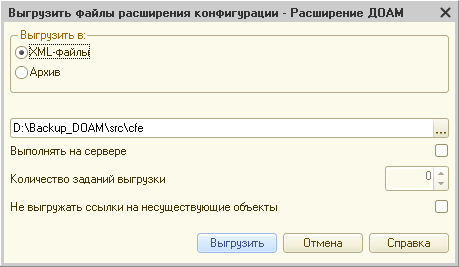
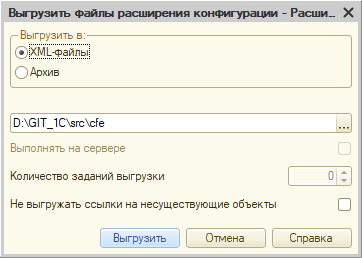
1C How to update vendor DB
* Disable Classic Pages (allow all actions) and change link theme

diff --git a/faq/1cd_crash/01_upgrade-base.md b/faq/1cd_crash/01_upgrade-base.md
@@ -1,0 +1,79 @@
+---
+sort: 1
+---
+
+# Обновление платформы в не изменяя информационную базу
+
+|1C:Предприятие|8.3.24.1691
+|:--- |:--- 
+|Документооборот КОРП|2.1.29.17
+|Расширение ДОАМ|[2.0.0]
+
+[2.0.0]: https://github.com/kc-doam/doam.cfe/releases
+
+``` note
+Если конфигурация открыта, то пропустите пункт 1.
+```
+
+## Решение вопроса
+
+``` tip
+Перед выполнением действий создайте копию информационной базы.
+```
+
+1. Открыть `Конфигурацию` в режиме конфигуратора, - слева откроется окно  
+``` mermaid
+graph LR
+  %% https://mermaid-js.github.io/mermaid-live-editor/
+  %% https://fontawesome.ru/all-icons/
+  b1([fa:fa-external-link Конфигуратор]) -.-> |ЛКМ| m1
+  m1("Конфигурация [меню]") --> m2
+  m2(Открыть конфигурацию) -.-> |ЛКМ| element
+  element[fa:fa-window-restore Конфигурация]
+  style b1 fill:#f9f9f9,stroke:#a0a0a0,stroke-width:2px
+  style element fill:#fff,stroke:#a0a0a0,stroke-width:2px,stroke-dasharray:2 4
+  classDef confmenu fill:#d6e9ff,stroke:#9eb6e9,stroke-width:1px,color:#3d4e8f
+  class m1,m2 confmenu
+```
+``` tip
+Если панель `Конфигурация` закрыта, то отобразить окно можно горячими клавишами [`Ctrl+Shift+C`](#)
+```
+
+2. Перед сравнением-объединением с новой версией удалить общие формы и регистры:  
+	* ЗагрузкаДанныхИзСервиса  
+	* АдресныеОбъекты  
+``` note
+В версии `2.1.29` вместо перечисленных добавлены объекты с такими же именами, но с другой структурой.
+```
+
+3. В действительности с конфигурацией от стороннего производителя будет сделать невозможно,  
+поэтому сразу запустить `Обновить конфигурацию...` и меню `Поддержка`.  
+``` mermaid
+graph LR
+  %% https://mermaid-js.github.io/mermaid-live-editor/
+  %% https://fontawesome.ru/all-icons/
+  m1("Конфигурация [меню]") --> m2
+  m2("Поддержка") -.-> |ЛКМ| m3
+  m3("Обновить конфигурацию...")
+  classDef confmenu fill:#d6e9ff,stroke:#9eb6e9,stroke-width:1px,color:#3d4e8f
+  class m1,m2,m3 confmenu
+```
+
+4. Выбрать файл обновления, который по умолчанию скачивается в директорию 
+`%AppData%\1C\1cv8\tmplts\1c\`, и нажать кнопку `Готово`, затем `Продолжить обновление`.  
+
+5. Необходимо сравнить поставщика обновления, нажать кнопку `ОК` и подождать сравнение конфигураций.  
+![Запрос обновления](images/upgrade_cfu_2_1.png)
+``` note
+После появления окна необходимо найти и установить галки напротив объектов, указанных в пункте 2. Затем нажать кнопку `Выполнить`.  
+На сообщение `Будет произведена замена объектов. Продолжить?` ответить `Да`, затем нажать `OK`.  
+Расширение в режиме "адаптация" перед обновлением отключать не требуется.  
+```
+После появления сообщения с реорганизацией базы (после реструктуризации) нажмите кнопку `Принять`.  
+
+6. После обовления конфигурации нажать клавишу `F7`.  
+В результате успешного обновления во время очередного запуска информационной базы 
+появится сообщение с обновлением, а затем и сообщение с окончанием обносления.  
+![Процесс обновления](images/upgrade_cfu_2_2.png)
+
+

diff --git a/faq/xls_crash/README.md b/faq/xls_crash/README.md
@@ -1,5 +1,6 @@
 ---
 sort: 1
+ext: .html
 ---
 
 ## Excel: Сбой при работе с документами
@@ -9,8 +10,9 @@ sort: 1
 
 |Дата заявки|Версия Excel|Суть конфликта
 |:--- |:--- |:--- 
-|2022-01-17|16.0.4266.1001|[Вместо открытия файла видно пустое окно](blank-window)
-|2021-09-15|14.0.7015.1000|[Ошибка чтения макросом файла](protected-view)
-|2021-04-23|16.0.4266.1001|[В документах рецензирования нет суммы](empty-amount-in-docs)
-|2021-04-09|16.0.4266.1001|[Книги не закрываются при нажании на крест](book-does-not-close)
+|2024-06-18|16.0.4266.1001|[Новый документ не сохраняется](05_dont-save-docs{{ page.ext }})
+|2022-01-17|16.0.4266.1001|[Вместо открытия файла видно пустое окно](04_blank-window{{ page.ext }})
+|2021-09-15|14.0.7015.1000|[Ошибка чтения макросом файла](03_protected-view{{ page.ext }})
+|2021-04-23|16.0.4266.1001|[В документах рецензирования нет суммы](02_empty-amount-in-docs{{ page.ext }})
+|2021-04-09|16.0.4266.1001|[Книги не закрываются при нажании на крест](01_book-does-not-close{{ page.ext }})
 

diff --git a/faq/1cd_crash/03_export-extension-files.md b/faq/1cd_crash/03_export-extension-files.md
@@ -1,5 +1,5 @@
 ---
-sort: 2
+sort: 3
 ---
 
 # Экспорт файлов расширения ДОАМ
@@ -9,7 +9,7 @@ sort: 2
 |Документооборот КОРП|2.1.10.2
 |Расширение ДОАМ|[1.2.2]
 
-[1.2.2]: //github.com/kc-doam/doam.cfe/releases
+[1.2.2]: https://github.com/kc-doam/doam.cfe/releases
 
 ``` note
 Если конфигурация открыта, то пропустите пункт 1.
@@ -36,7 +36,7 @@ graph LR
 [`Ctrl+Shift+C`](#)
 ```
 
-2. Выбрать меню `Выгрузить конфигурацию в файлы` и указать путь `REPO\src\cfe`
+2. Выбрать меню панель управления `Расширения конфигурации`  
 ``` mermaid
 graph LR
   %% https://mermaid-js.github.io/mermaid-live-editor/
@@ -60,7 +60,7 @@ graph LR
   classDef confmenu fill:#d6e9ff,stroke:#9eb6e9,stroke-width:1px,color:#3d4e8f
   class m1,m2,m3 confmenu
 ```
-
+Выбрать меню `Выгрузить конфигурацию в файлы...` и указать путь `REPO\src\cfe`  
 ![Экспорт](images/export_cfe_2_0.png)
 
 3. В случае необходимости подтвердить действие

diff --git a/faq/1cd_crash/README.md b/faq/1cd_crash/README.md
@@ -1,5 +1,6 @@
 ---
 sort: 2
+ext: .html
 ---
 
 ## 1С: Сбой после обновления или изменений
@@ -9,7 +10,8 @@ sort: 2
 
 |Дата заявки|Версия 1С|Суть конфликта
 |:--- |:--- |:--- 
-|2022-07-18|8.3.18.1741|[Создание файловой информационной базы без конфигурации](create-new-base)
-|2021-10-12|8.3.17.1851|[Экспорт файлов расширения ДОАМ](export-extension-files)
-|2020-12-24|8.3.17.1851|[После обновления пустой экран](main-window-is-white)
+|2024-11-20|8.3.24.1691|[Обновление платформы в не изменяя информационную базу](01_upgrade-base{{ page.ext }})
+|2022-07-18|8.3.18.1741|[Создание файловой информационной базы без конфигурации](02_create-new-base{{ page.ext }})
+|2021-10-12|8.3.17.1851|[Экспорт файлов расширения ДОАМ](03_export-extension-files{{ page.ext }})
+|2020-12-24|8.3.17.1851|[После обновления пустой экран](04_main-window-is-white{{ page.ext }})
 

diff --git a/faq/1cd_crash/04_main-window-is-white.md b/faq/1cd_crash/04_main-window-is-white.md
@@ -1,5 +1,5 @@
 ---
-sort: 3
+sort: 4
 ---
 
 # После обновления пустой экран
@@ -9,7 +9,7 @@ sort: 3
 |Документооборот КОРП|2.1.10.2
 |Расширение ДОАМ|[1.2.1]
 
-[1.2.1]: //github.com/kc-doam/doam.cfe/releases
+[1.2.1]: https://github.com/kc-doam/doam.cfe/releases
 
 ``` danger
 **2020-12-24**  
@@ -34,8 +34,8 @@ graph LR
   class m1,m2 confmenu
 ```
 ``` tip
-Если `Конфигурация` открыта, показать окно можно горячими клавишами 
-[`Ctrl+Shift+C`](#{{ page.url }})
+Если панель `Конфигурация` открыта, показать окно можно горячими клавишами 
+[`Ctrl+Shift+C`](#{{ site.baseurl }})
 ```
 
 2. Проверить настройки Начальной страницы `Конфигурации` в поле `Шаблон 

diff --git a/faq/xls_crash/05_dont-save-docs.md b/faq/xls_crash/05_dont-save-docs.md
@@ -1,0 +1,23 @@
+---
+sort: 5
+---
+
+# Новый документ не сохраняется
+
+|MS Excel|16.0.4266.1001
+|:--- |:--- 
+|Формат|xls, xlsm
+
+``` danger
+**2024-06-18**  
+Невозможно создать новые документы, редактировать и сохранить.
+```
+
+## Разрешение конфликта
+
+1. Создание новых документов и редактирование существующих недоступны при неактивированном продукте MS Office.
+
+2. Сохранить [`скрипт`](files/OperatingSystem.vbs) на локальный диск, запустить и проверить установленный продукт MS Office.
+
+3. Активировать продукт MS Office, если он установлен.
+

diff --git a/help/1cd_help/remove-counterparty.md b/help/1cd_help/remove-counterparty.md
@@ -5,7 +5,7 @@
 |Документооборот КОРП|2.1.10.2
 |Расширение ДОАМ|[1.2.1]
 
-[1.2.1]: //github.com/kc-doam/doam.cfe/releases
+[1.2.1]: https://github.com/kc-doam/doam.cfe/releases
 
 ``` warning
 **2021-05-20**  
@@ -15,7 +15,7 @@
 ## Решение вопроса
 
 Чтобы удалить карточку контрагента нужно нажать клавишу 
-[`Delete`](#{{ site.lang }}). Вместо удаления в базе к записи контрагента 
+[`Delete`](#{{ page.url }}). Вместо удаления в базе к записи контрагента 
 применяется специальная метка "*на удаление*" (в списке на `Главной странице` 
 появляется *красный круг*).  
 

diff --git a/help/1cd_help/README.md b/help/1cd_help/README.md
@@ -1,8 +1,12 @@
+---
+ext: .html
+---
+
 ## 1С: Документооборот / База контрагентов
 
 ### Хронология
 
 |Дата заявки|Версия 1С|Вопрос
 |:--- |:--- |:--- 
-|2021-05-20|8.3.17.1851|[Удалить контрагента](remove-counterparty)
+|2021-05-20|8.3.17.1851|[Удалить контрагента](remove-counterparty{{ page.ext }})
 

diff --git a/faq/README.md b/faq/README.md
@@ -2,7 +2,10 @@
 sort: 2
 ---
 
-# Вопросы и решения
+## Вопросы и решения
 
 {% include list.liquid all=true %}
+
+
+Jekyll {{ jekyll.version }}
 

diff --git a/help/README.md b/help/README.md
@@ -2,7 +2,7 @@
 sort: 1
 ---
 
-# Руководство менеджера
+## Руководство менеджера
 
 {% include list.liquid all=true %}
 

diff --git a/faq/1cd_crash/02_create-new-base.md b/faq/1cd_crash/02_create-new-base.md
@@ -1,4 +1,5 @@
 ---
+sort: 2
 ---
 
 # Создание файловой информационной базы без конфигурации
